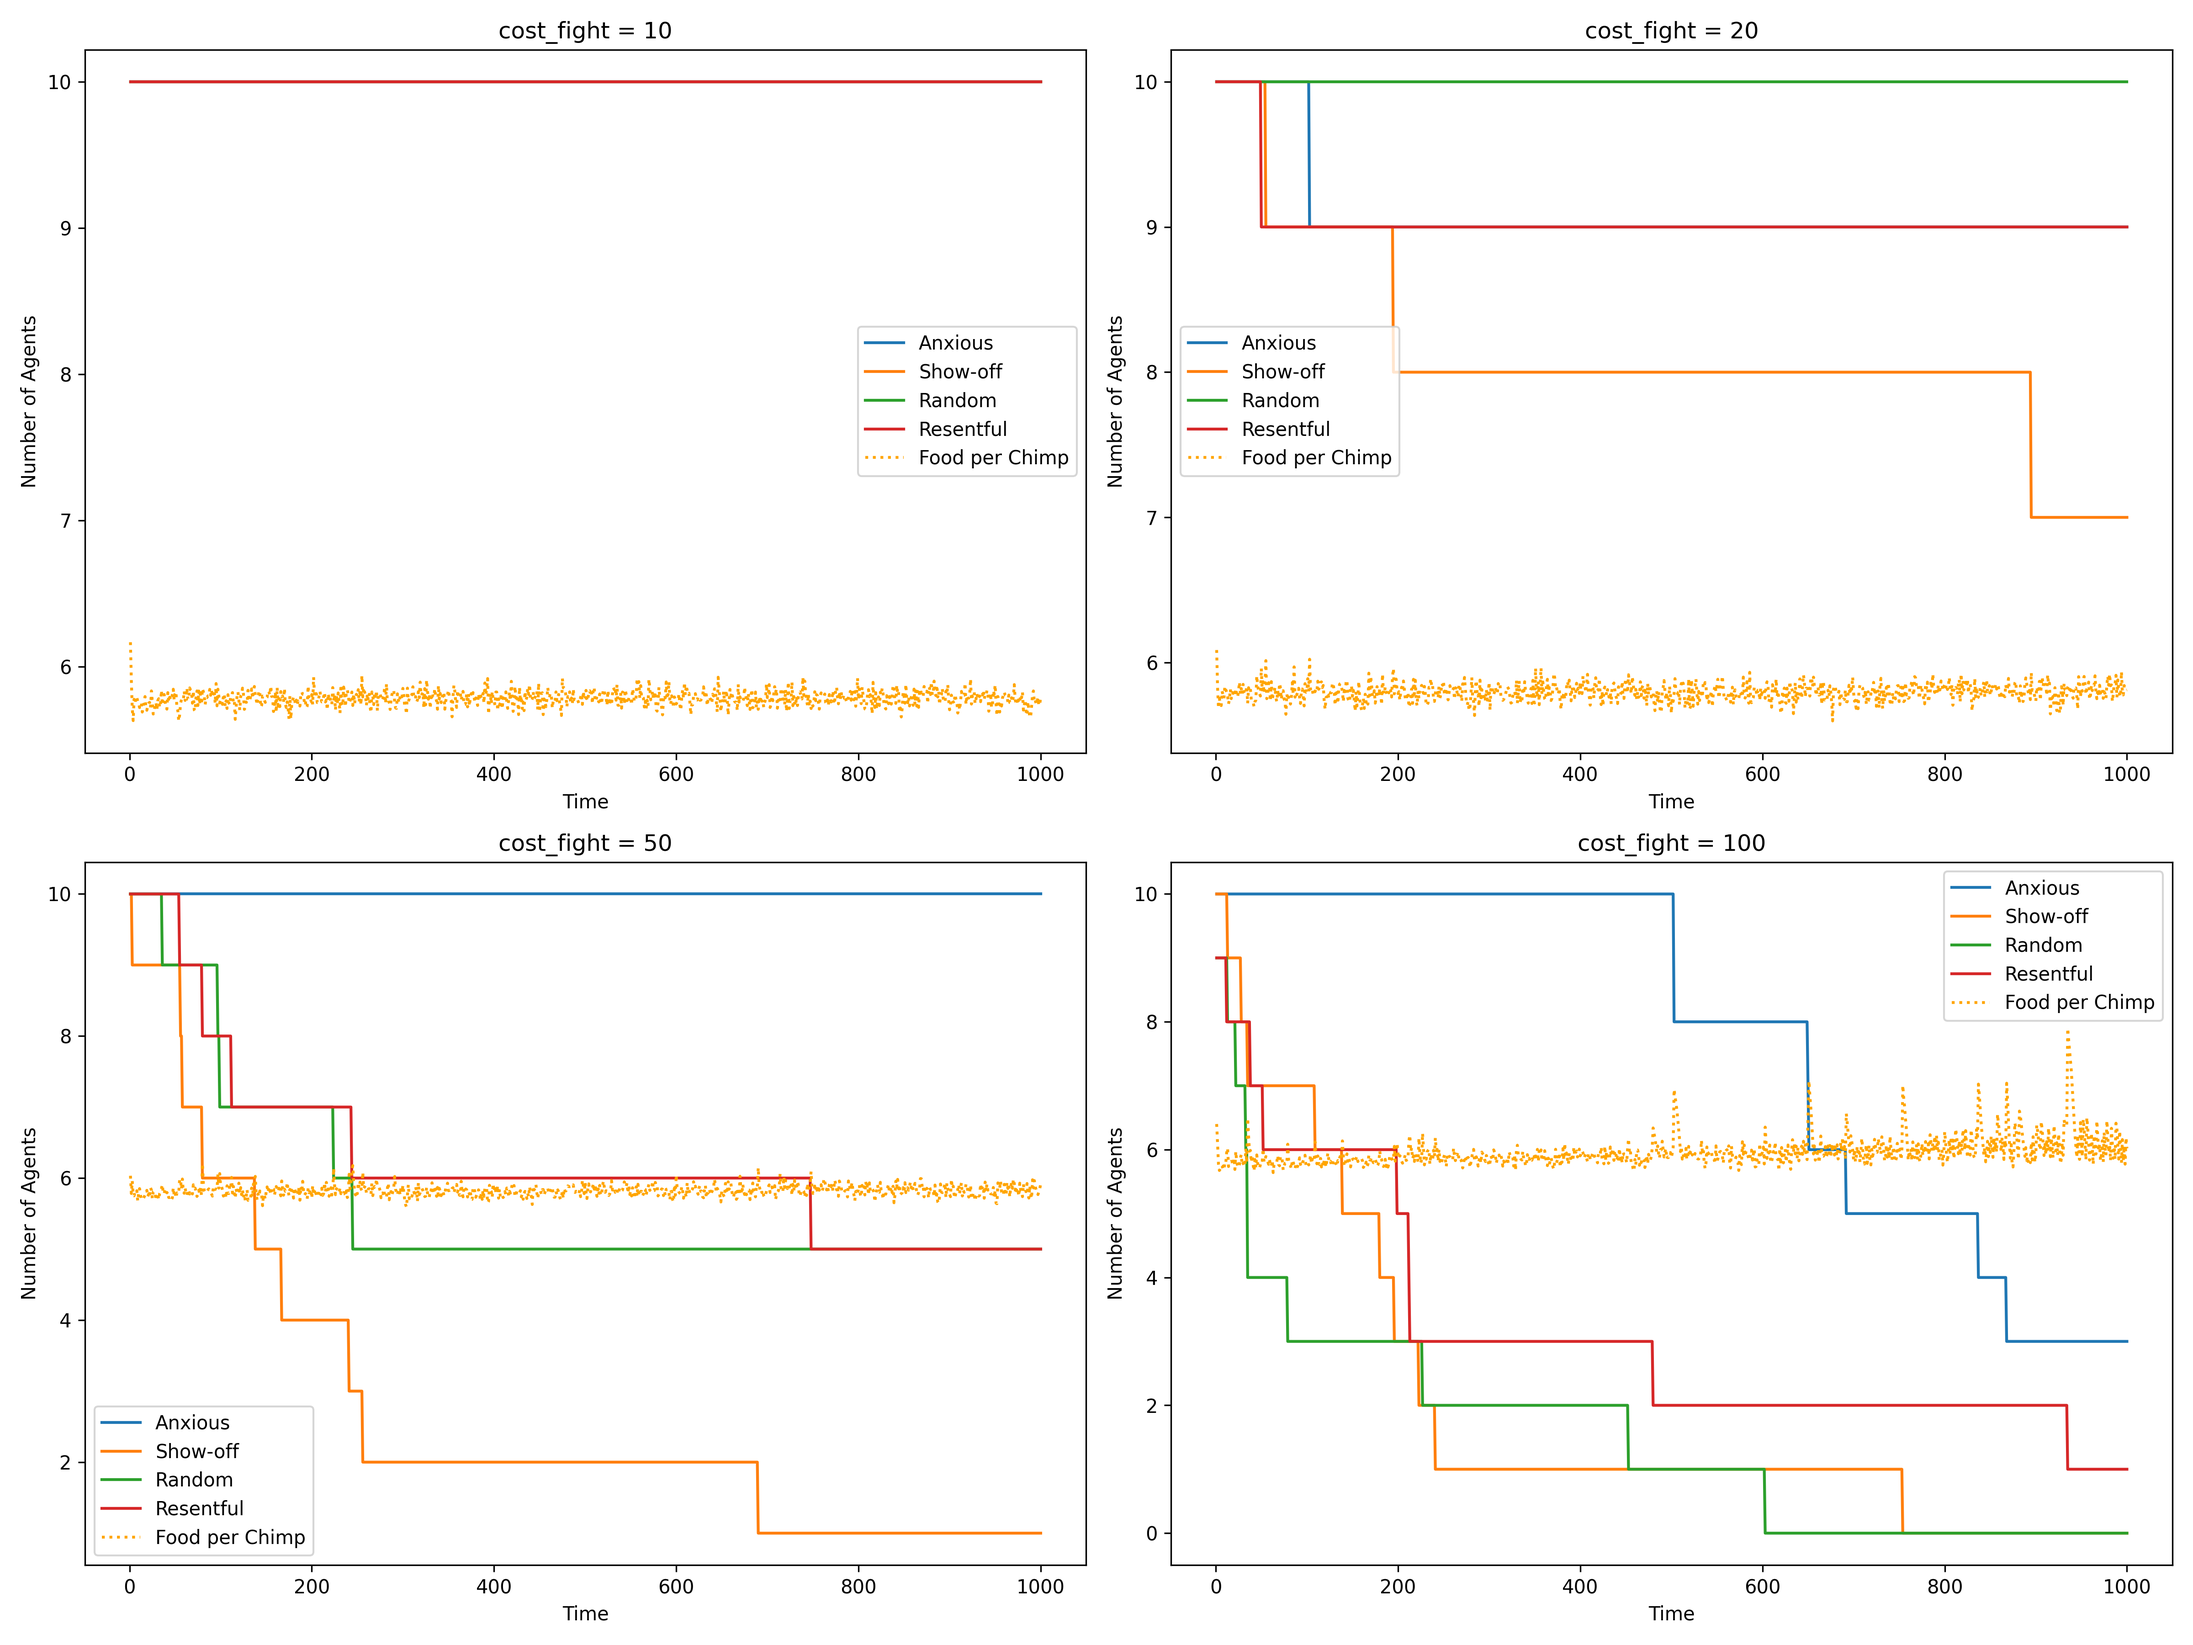
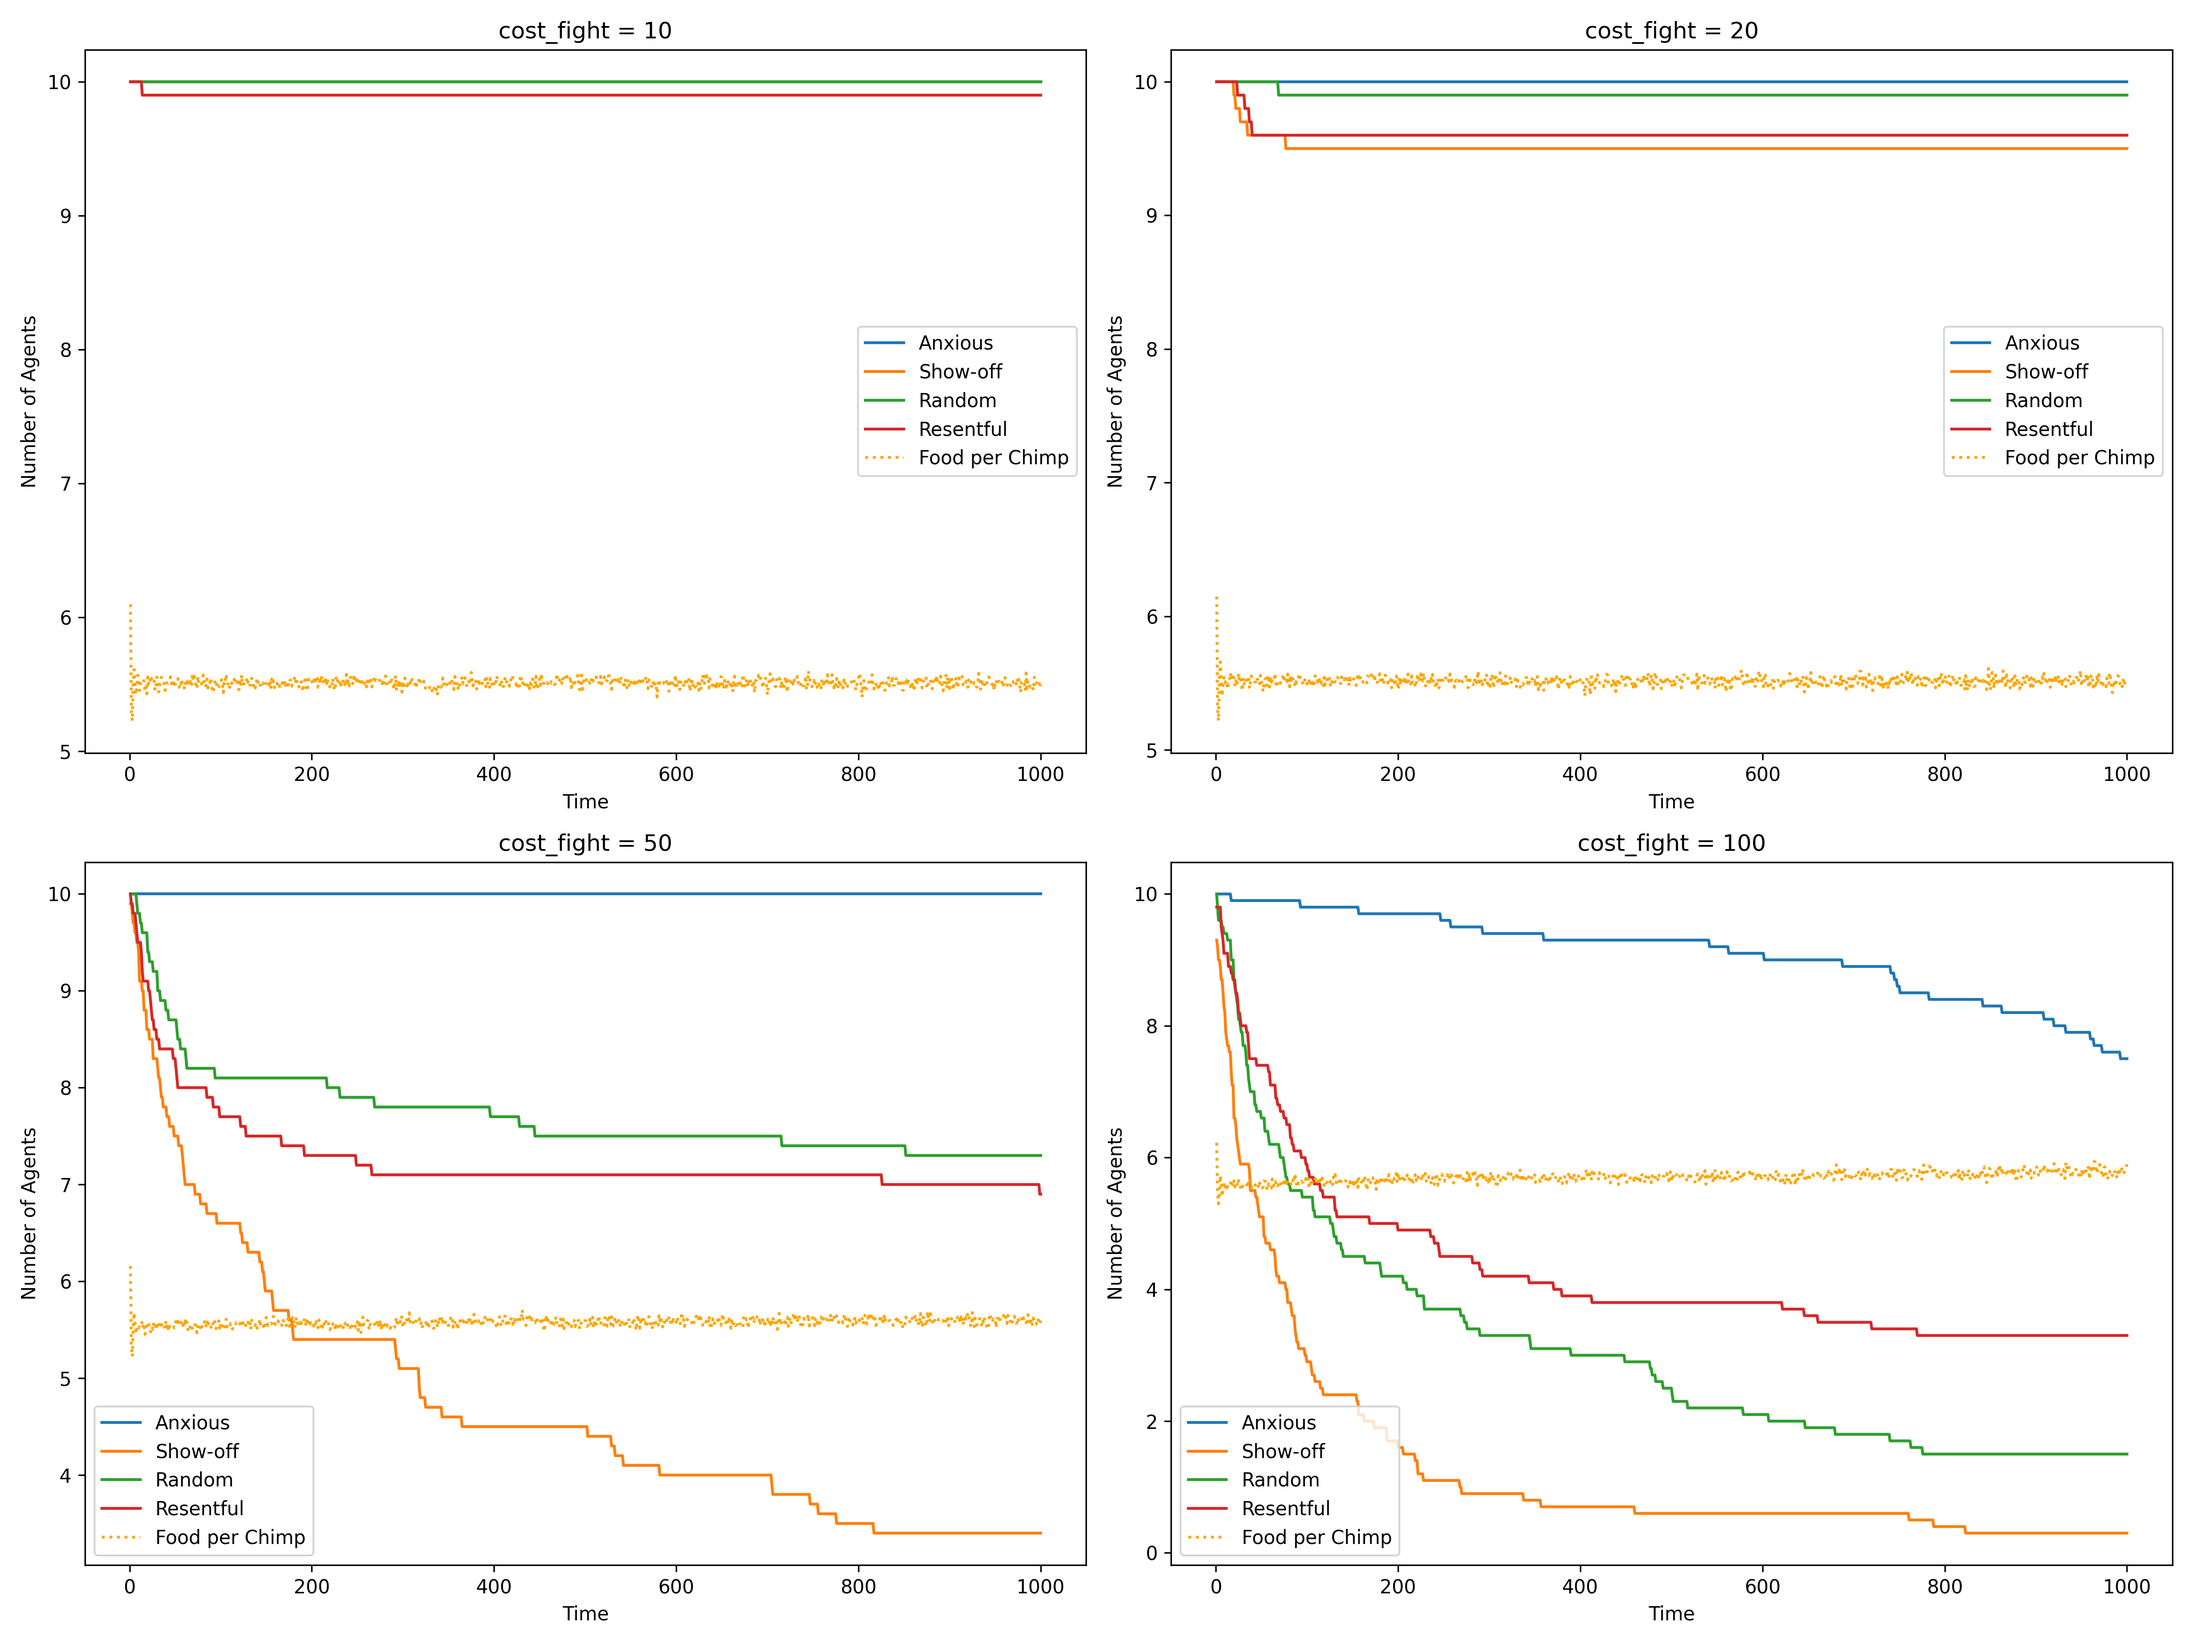
reimagined oasis parameters

diff --git a/Model/Model.py b/Model/Model.py
@@ -6,7 +6,7 @@ from Agents.Crew import Chimp_crew
 
 
 class Model:
-    def __init__(self, n_crews,  grid_size, oasis_spawn_proportional=False, avg_oasis_size=25, abundance_factor=20, crew_consumption_rate=1, initialise_crews=True):
+    def __init__(self, n_crews,  grid_size, oasis_spawn_proportional=False, abundance_factor=20, oasis_density=0.24, initialise_crews=True, food_consumption_speed=2, crew_energy_expenditure=1):
         '''
         n_crews (int): number of initial chimp crews
         n_oases (int): number of initial oases
@@ -16,20 +16,31 @@ class Model:
         self.n_crews = n_crews
         self.grid_size = grid_size
         self.oasis_spawn_proportional = oasis_spawn_proportional
-        self.avg_oasis_size = avg_oasis_size
         self.abundance_factor = abundance_factor
-        self.crew_consumption_rate = crew_consumption_rate
+        self.crew_energy_expenditure = crew_energy_expenditure
+        self.crew_consumption_rate = food_consumption_speed * 2 * np.sqrt(oasis_density)
         self.crews = {}
         self.oases = {}
         if initialise_crews: 
             self.initial_n_chimps = self.initialize_crews()
+            self.avg_oasis_size = self.food_required / (oasis_density * grid_size * grid_size )
             self.update_oases()
-        # for _ in range(n_oases):
-        #     self.add_oasis(random.gauss(avg_oasis_size, avg_oasis_size*0.1))
         self.grid = []
         self.create_grid()
         self.data_track = [[], []]
 
+
+
+    @property
+    def food_required(self):
+        if self.oasis_spawn_proportional:
+            oasis_spawn_factor = self.n_chimps
+        else:
+            oasis_spawn_factor = self.initial_n_chimps
+
+        current_food = sum([oasis.resource for oasis in self.oases.values()])
+        food_required = oasis_spawn_factor * self.abundance_factor * self.crew_energy_expenditure - current_food
+        return food_required
 
     @property
     def n_chimps(self):
@@ -51,9 +62,10 @@ class Model:
         id = next(self.id_gen)
         size = 1
         energy = 0
-        new_crew = Chimp_crew(id, pos, size, energy, type, consumption_rate=self.crew_consumption_rate)
+        new_crew = Chimp_crew(id, pos, size, energy, type, consumption_rate=self.crew_consumption_rate, expenditure=self.crew_energy_expenditure)
         self.crews[id] = new_crew
         return new_crew
+    
 
     def update_oases(self):
         # delete empty oases
@@ -64,14 +76,7 @@ class Model:
         for id in ids:
             del self.oases[id]
 
-        if self.oasis_spawn_proportional:
-            oasis_spawn_factor = self.n_chimps
-        else:
-            oasis_spawn_factor = self.initial_n_chimps
-
-        current_food = sum([oasis.resource for oasis in self.oases.values()])
-        food_required = oasis_spawn_factor * self.abundance_factor * self.crew_consumption_rate - current_food
-        oases_required = int(-(food_required // -self.avg_oasis_size))
+        oases_required = int(-(self.food_required // -self.avg_oasis_size))
         for _ in range(oases_required):
             self.add_oasis(random.gauss(self.avg_oasis_size, self.avg_oasis_size/3))
 

diff --git a/Type_experiment/Type_model.py b/Type_experiment/Type_model.py
@@ -15,23 +15,24 @@ from Agents.Crew import Chimp_crew
 from Model.Model import Model
 
 class Type_Chimp_crew(Chimp_crew):
-    def __init__(self, id, pos, crew_size=10, initial_energy=100, strat=None, consumption_rate=1):
-        super().__init__(id, pos, crew_size, initial_energy, consumption_rate=consumption_rate)
+    def __init__(self, id, pos, crew_size=10, initial_energy=100, strat=None, consumption_rate=1, expenditure=1):
+        super().__init__(id, pos, crew_size, initial_energy)
         self.strat = strat
         self.type = None
         self.last_opp_type = -1
 
 
 class Type_Model(Model):
-    def __init__(self, n_crews, grid_size, n_types,  cost_fight = 10, oasis_spawn_proportional=True, abundance_factor=10):
+    def __init__(self, n_crews, grid_size, n_types,  cost_fight = 10, oasis_spawn_proportional=True, abundance_factor=10, oasis_density=0.3, food_consumption_speed=nk1.5):
         '''
         n_crews (int): number of initial chimp crews
         n_oases (int): number of initial oases
         grid_size(int): length of the edge of the square grid
         '''
-        super().__init__(n_crews, grid_size, initialise_crews=False, oasis_spawn_proportional=oasis_spawn_proportional, abundance_factor=abundance_factor)
+        super().__init__(n_crews, grid_size, initialise_crews=False, oasis_spawn_proportional=oasis_spawn_proportional, abundance_factor=abundance_factor, oasis_density=oasis_density, food_consumption_speed=food_consumption_speed)
         self.crews = {}
         self.initial_n_chimps = self.initialize_typed_crews(n_crews, n_types)
+        self.avg_oasis_size = self.food_required / (oasis_density * grid_size * grid_size )
         self.update_oases()
         self.cost_fight = cost_fight
         self.create_typed_grid()

diff --git a/Agents/Crew.py b/Agents/Crew.py
@@ -5,13 +5,14 @@ def euclidean_distance(pos1, pos2):
     return ((pos1[0] - pos2[0]) ** 2 + (pos1[1] - pos2[1]) ** 2) ** 0.5
 
 class Chimp_crew(Agent):
-    def __init__(self, id, pos, crew_size=10, initial_energy=100, consumption_rate=1):
+    def __init__(self, id, pos, crew_size=10, initial_energy=100, consumption_rate=1, expenditure=1):
         self.crew_size = crew_size # size of crew
         self.id = id
         self.pos = pos # position of the crew on the spatial domain
         self.energy = initial_energy # energy of our crew: goes up when the crew is currently occupying a resource rich oasis, goes down whem the crew moves, fights
         self.oasis = None
         self.crew_consumption_rate = consumption_rate
+        self.crew_energy_expenditure = expenditure
         self.unaccessible_oases = set()
 
     #************THE CONFLICT METHOD IS NOT BEING USED IN THE TYPE-INTERPRETATION*************
@@ -102,7 +103,7 @@ class Chimp_crew(Agent):
 
         
         
-        self.energy -= self.crew_size * self.crew_consumption_rate
+        self.energy -= self.crew_size * self.crew_energy_expenditure
         if len(available_nbh)>1 and oases:
             # based on global knowledge of all oases, we pick the closest
             accessible_oases = [oasis for oasis in oases if oasis.id not in self.unaccessible_oases]
@@ -127,7 +128,7 @@ class Chimp_crew(Agent):
             self.pos = available_nbh[0]
     
     def consume(self): # TODO: expand consume
-        food, remaining = self.oasis.get_consumed(self.crew_size / 3)
+        food, remaining = self.oasis.get_consumed(self.crew_size * self.crew_consumption_rate)
         self.energy += food
         if remaining <= 0 :
             self.oasis = None

diff --git a/Type_experiment/Type_plot.py b/Type_experiment/Type_plot.py
@@ -3,7 +3,7 @@ import matplotlib.pyplot as plt
 import numpy as np
 from tqdm import tqdm
 
-n_sim = 500
+n_sim = 10
 sim_length = 1000
 t = np.linspace(1, sim_length, sim_length)
 cost_fight_values = [10, 20, 50, 100]
@@ -13,14 +13,14 @@ n_types = len(n_types_names)
 fig, axs = plt.subplots(2, 2, figsize=(16, 12))
 axs = axs.flatten()
 
-for idx, cost_fight in enumerate(cost_fight_values):
+for idx, cost_fight in enumerate(tqdm(cost_fight_values)):
     data_track = []
     data_track_oases = []
     food_per_chimp_ = []
 
-    for i in tqdm(range(n_sim)):
+    for i in range(n_sim):
         food_per_chimp = []
-        model = Model(10* n_types, 20, n_types, cost_fight=cost_fight, oasis_spawn_proportional=True, abundance_factor=6)
+        model = Model(10* n_types, 20, n_types, cost_fight=cost_fight, oasis_spawn_proportional=True, abundance_factor=6, oasis_density=.24, food_consumption_speed=.33)
         for j in range(sim_length):
             model.run()
             if [crew for crew in model.crews.values()]:
